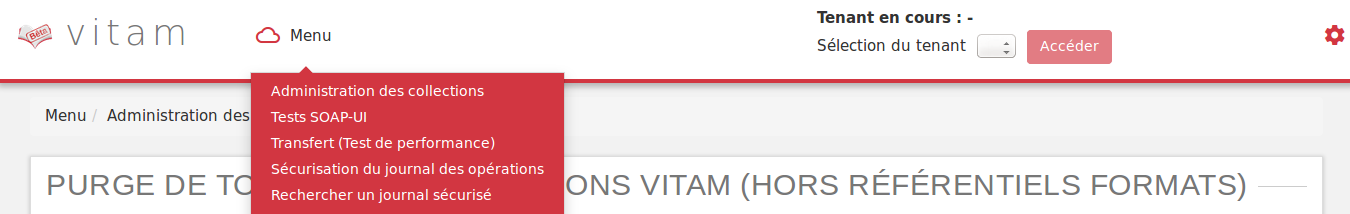
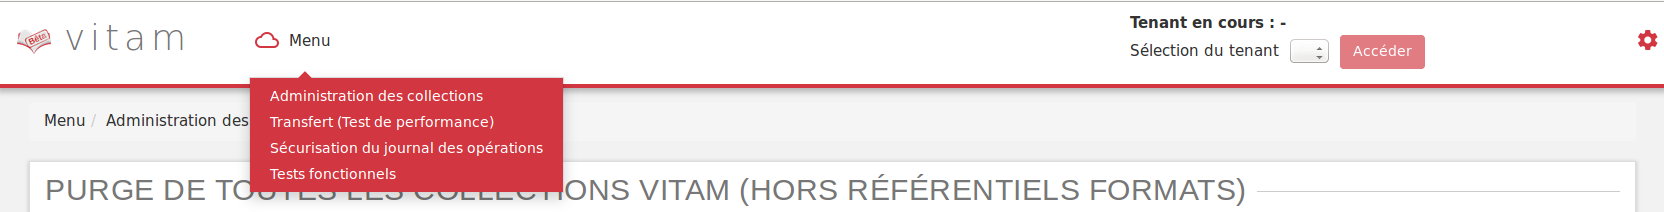
SOAPUI documentation deletion

diff --git a/doc/fr/ihm-recette/recette.rst b/doc/fr/ihm-recette/recette.rst
@@ -62,10 +62,9 @@ Par défaut, suite à sa connexion l'utilisateur accède à la page d'administra
 Le menu de navigation contient les entrées suivantes :
 
   * Administration des collections
-  * Test SOAP-UI
   * Transfert (test de performance)
   * Sécurisation d'un journal des opérations
-  * Rechercher un journal sécurisé
+  * Tests fonctionnels
 
 .. image:: images/RECETTE_navigation.png
 

diff --git a/doc/fr/ihm-recette/index.rst b/doc/fr/ihm-recette/index.rst
@@ -7,6 +7,5 @@
 
    recette.rst
    collections.rst
-   soapui.rst
    securisation.rst
    fonctionnel.rst
